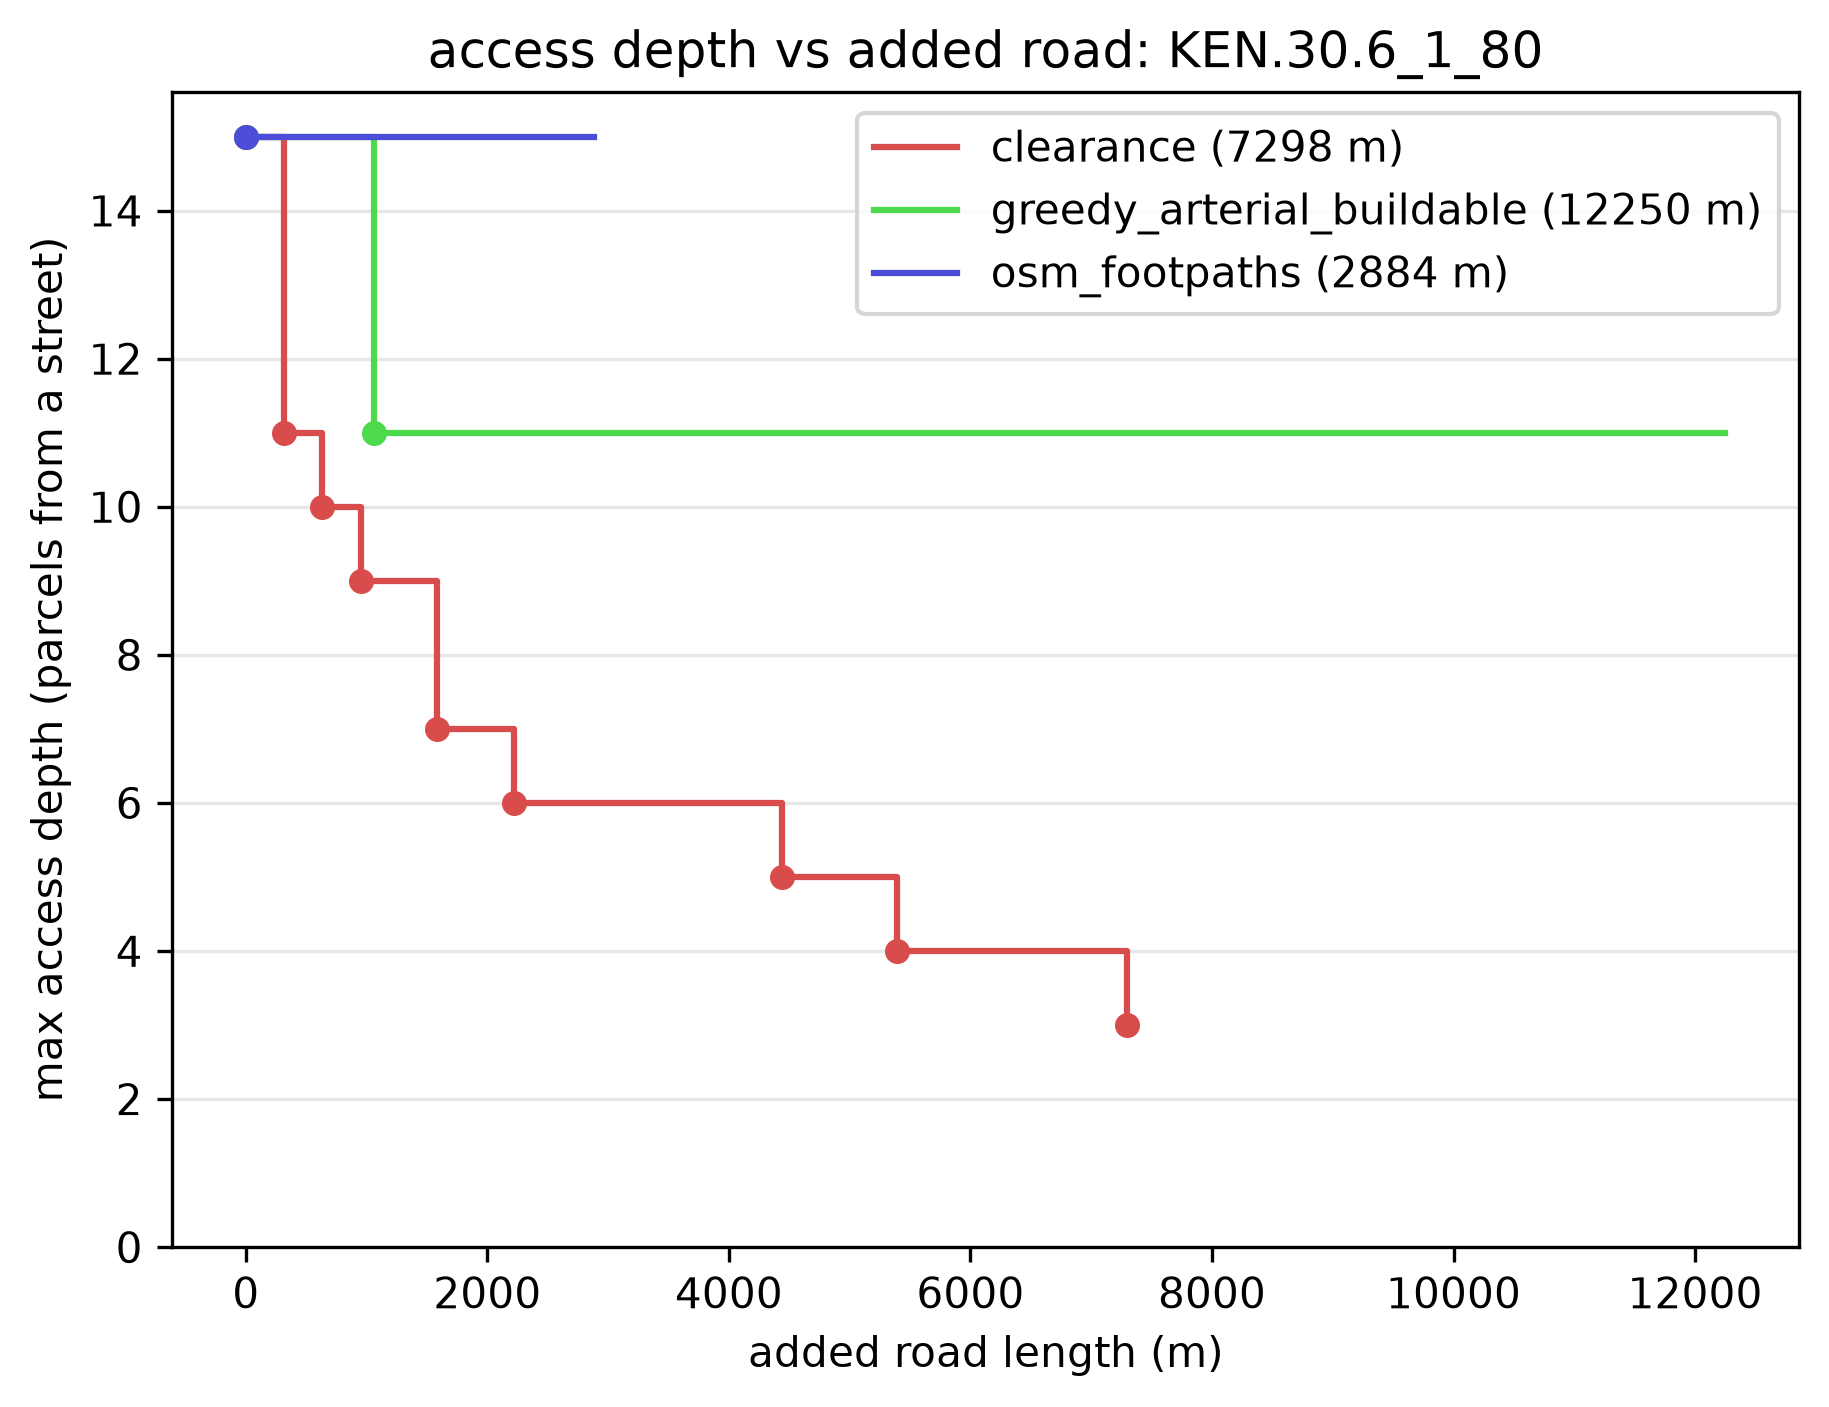
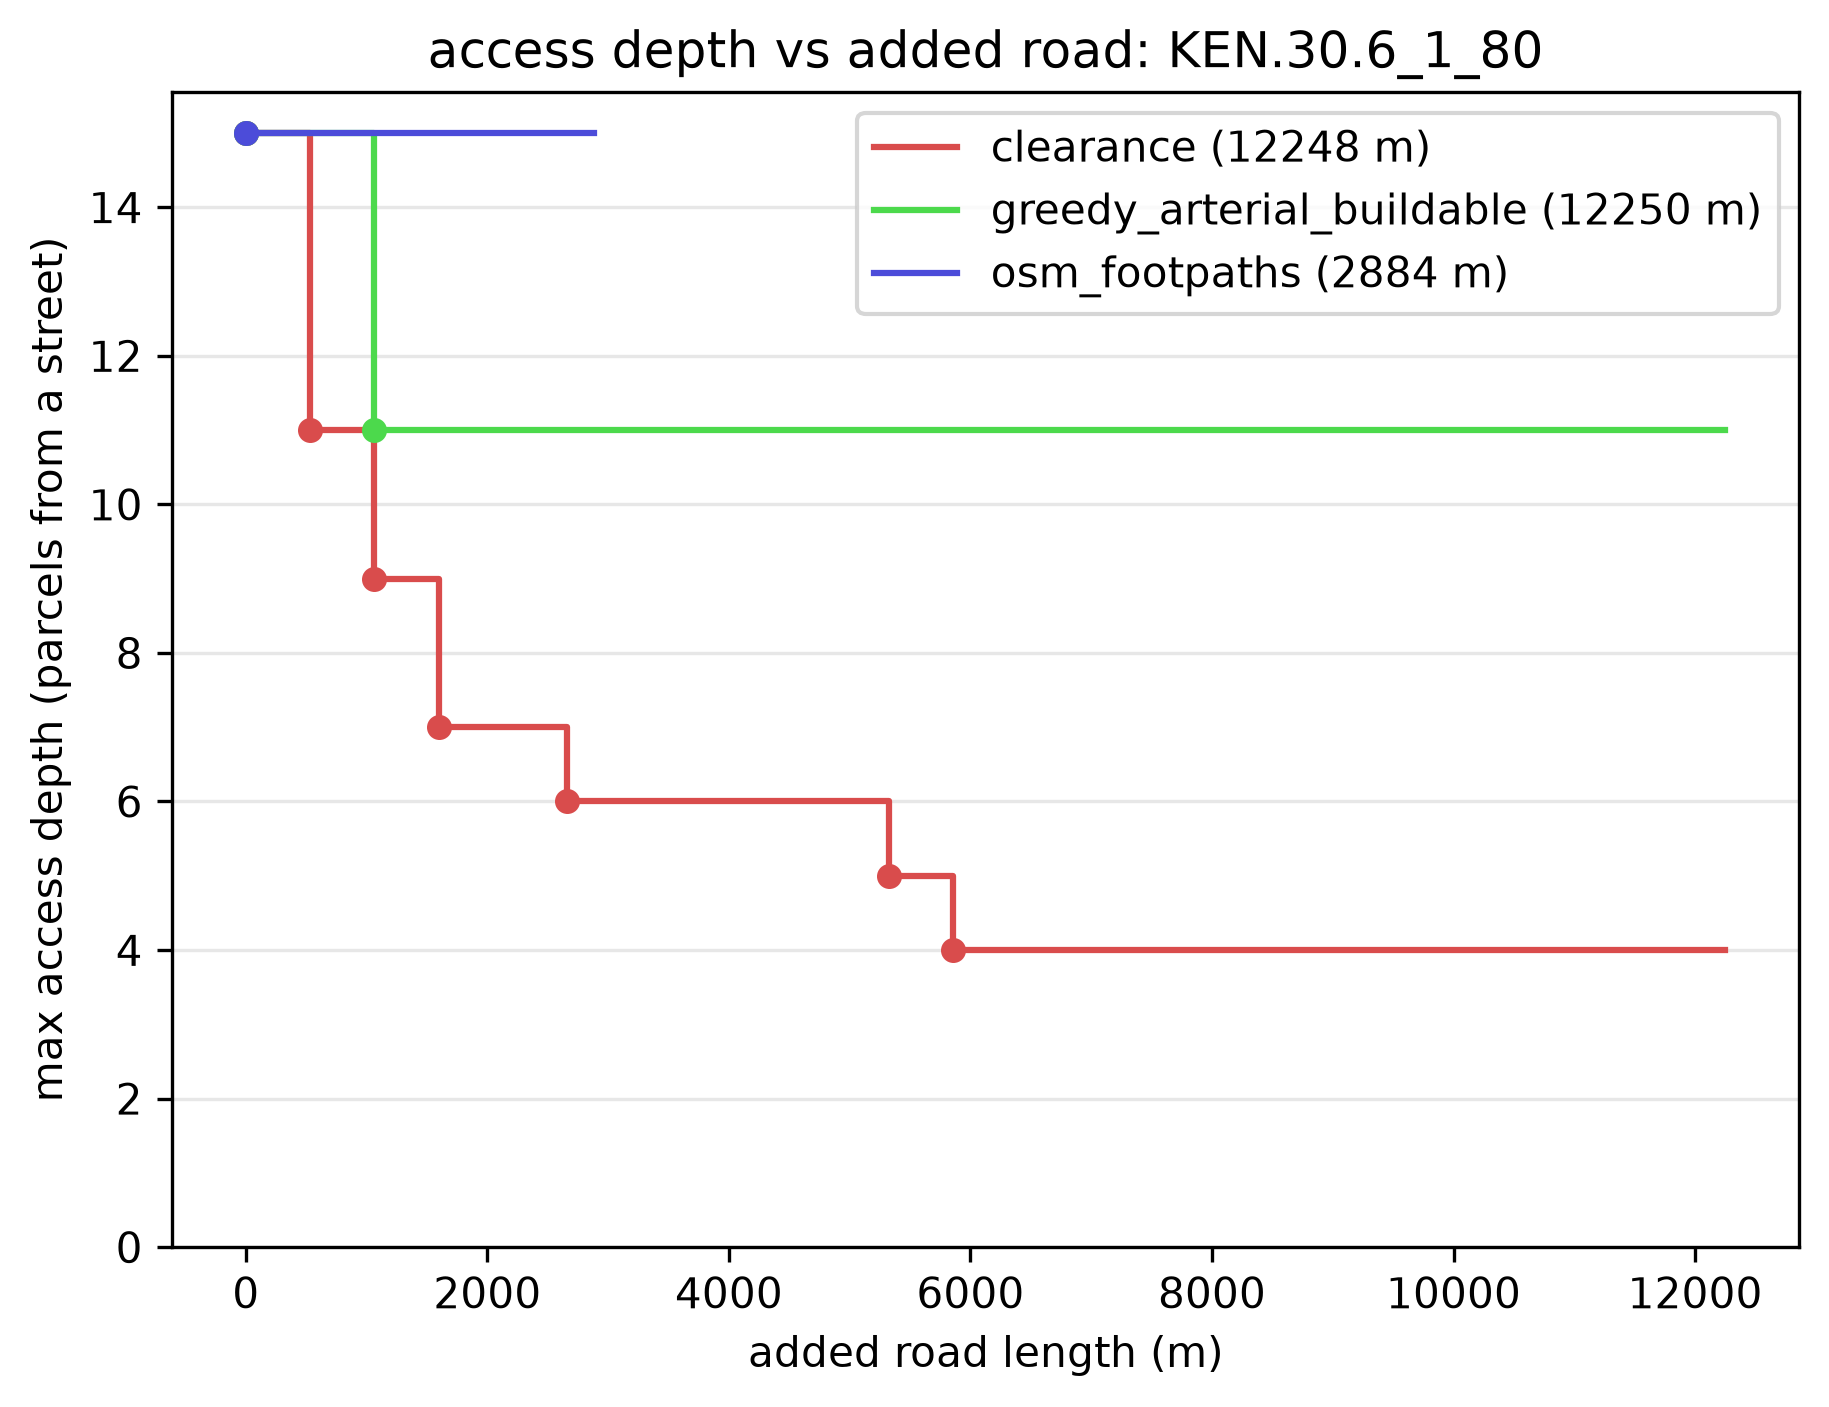
Continue clearance to the longest road on the depth curve (#20)
* feat: continue clearance past its depth target to the longest road on the depth curve

run_two_lens gains `extend` (over-provisioned method re-runs); each is truncated in drainage order
to L_max = the longest CONVERGED road, so it keeps clearing past its depth target while a method not
in `extend` (osm_footpaths fixed; arterial sparse) stops at its own length. A method already at
L_max is NOT re-run (skips the pointless, deep-region-expensive full-drainage reblock -- e.g. depth,
where clearance is already the longest, so its curve matches Lens A exactly). The orchestrator
extends only clearance (depth_target 1 = full drainage), the thorough clearer whose line is the
point; its extended run differs slightly from the depth-3-optimised Lens A, noted in the README.

Claude-Session: https://claude.ai/code/session_0125mCca6BQaTXiLZPMyFa8x

* chore(examples): regenerate depth curves continued to the longest road

Claude-Session: https://claude.ai/code/session_0125mCca6BQaTXiLZPMyFa8x

---------

diff --git a/scripts/compare_budgets.py b/scripts/compare_budgets.py
@@ -129,7 +129,8 @@ def _write_csv(path: Path, header: list[str], rows: list[list[object]]) -> None:
 
 
 def run_two_lens(region: list[Block], methods: dict[str, Method], target_depth: int,
-                 out_dir: Path, *, corridor_m: float = 3.0, label: str | None = None
+                 out_dir: Path, *, corridor_m: float = 3.0, label: str | None = None,
+                 extend: dict[str, Method] | None = None
                  ) -> tuple[list[LensARow], list[LensBRow]]:
     """Reblock each method once over `region` (timed), compute both lens tables, write the two CSVs,
     and render one after-heatmap per method per lens. The region block is method-independent (same
@@ -209,9 +210,20 @@ def run_two_lens(region: list[Block], methods: dict[str, Method], target_depth: 
         curves.append(MethodCurve(name, curve_label, "internal_connectivity", internal, pp, pd_))
         curves.append(MethodCurve(name, curve_label, "displacement", disp, pp, pd_))
     compare_report(curves, out_dir, method_order=list(methods))
-    # Access-depth vs road: where each method reaches each integer max-depth (osm plateaus).
-    depth_vs_road_report(block, roads_by_method, out_dir, method_order=list(methods),
-                         label=curve_label)
+    # Access-depth vs road. `extend` supplies over-provisioned re-runs of the method(s) to continue;
+    # each is truncated in drainage order to L_max = the longest CONVERGED road (max over the normal
+    # proposals), so it keeps clearing past its depth target out to L_max. A method NOT in `extend`
+    # (osm_footpaths, which is fixed; arterial, sparse by design) stops at its own converged length.
+    curve_roads = dict(roads_by_method)
+    if extend:
+        converged = {n: float(r.geometry.length.sum()) for n, r in roads_by_method.items()}
+        l_max = max(converged.values())
+        for name, xmethod in extend.items():
+            if converged.get(name, 0.0) >= l_max - 1e-6:
+                continue      # already the longest -> its own road is the curve road; no re-run
+            xroads = cast(GeoDataFrame, region_reblock(region, xmethod, []).proposal.roads)
+            curve_roads[name] = truncate_to_length(block, xroads, l_max)
+    depth_vs_road_report(block, curve_roads, out_dir, method_order=list(methods), label=curve_label)
     return lens_a, lens_b
 
 

diff --git a/scripts/gen_multiblock_example.py b/scripts/gen_multiblock_example.py
@@ -101,7 +101,16 @@ def main() -> None:
         with open_dict(cfg):
             cfg.desire_source.snapshot = str(snapshot)
         methods["osm_footpaths"] = cast(Method, instantiate(cfg.all_methods.osm_footpaths))
-    run_two_lens(region, methods, 3, out, label=seed)
+    # Continue clearance past its depth target on the depth curve ("to the longest road"): with
+    # depth_target 0 it keeps clearing until the region is fully drained, so it reaches L_max. Only
+    # clearance is extended -- it's the thorough clearer whose line is the point (it drains to ~1 at
+    # the longest budget); arterial (sparse by design) and the fixed osm_footpaths stop at their own
+    # converged lengths. Over-provisioning arterial's CELF doesn't scale to the big regions.
+    with open_dict(cfg):
+        cfg.all_methods.clearance.depth_target = 1     # clear to full drainage (bounded), not 0
+        cfg.all_methods.clearance.max_roads = 10000
+    extend = {"clearance": cast(Method, instantiate(cfg.all_methods.clearance))}
+    run_two_lens(region, methods, 3, out, label=seed, extend=extend)
 
     depths = block_depths(source, members)
     dens = {b.block_id: len(b.parcels) / b.parcels.geometry.union_all().area * 1e4 for b in region}

diff --git a/scripts/gen_example_readme.py b/scripts/gen_example_readme.py
@@ -70,9 +70,11 @@ def gen_example_readme(run_dir: Path, *, metric_name: str, formula: str, blurb: 
         parts.append("## 3. The method frontier (benefit vs added road)\n")
         if depth_curve:
             parts.append("How far each method's road drives the region's **max access depth** — a "
-                         "dot marks where it first reaches each new integer depth. The as-built "
-                         "`osm_footpaths` network plateaus at its floor; the optimised methods "
-                         "keep clearing (this is why the matched-road comparison matters):\n")
+                         "dot marks where it first reaches each new integer depth. `clearance` is "
+                         "**continued past its depth target** (a full-drainage run) out to the "
+                         "longest method's road, so every method is compared at the same budget: "
+                         "the as-built `osm_footpaths` network plateaus at its floor while "
+                         "`clearance` reaches the same depth for a fraction of the road:\n")
             for p in depth_curve:
                 parts.append(f"![access depth vs added road]({p.name})\n")
     if curve_ext or curve_int or curve_disp:

diff --git a/examples/multiblock_density_compactness/README.md b/examples/multiblock_density_compactness/README.md
@@ -20,7 +20,7 @@ The metric grows a **19-block** region (**4,677 parcels**), mean depth 5.1 rings
 
 ## 3. The method frontier (benefit vs added road)
 
-How far each method's road drives the region's **max access depth** — a dot marks where it first reaches each new integer depth. The as-built `osm_footpaths` network plateaus at its floor; the optimised methods keep clearing (this is why the matched-road comparison matters):
+How far each method's road drives the region's **max access depth** — a dot marks where it first reaches each new integer depth. `clearance` is **continued past its depth target** (a full-drainage run) out to the longest method's road, so every method is compared at the same budget: the as-built `osm_footpaths` network plateaus at its floor while `clearance` reaches the same depth for a fraction of the road:
 
 ![access depth vs added road](depth_vs_road_ZAF.9.3.1_1_44531.png)
 

diff --git a/examples/multiblock_depth_density/README.md b/examples/multiblock_depth_density/README.md
@@ -20,7 +20,7 @@ The metric grows a **3-block** region (**2,690 parcels**), mean depth 8.7 rings,
 
 ## 3. The method frontier (benefit vs added road)
 
-How far each method's road drives the region's **max access depth** — a dot marks where it first reaches each new integer depth. The as-built `osm_footpaths` network plateaus at its floor; the optimised methods keep clearing (this is why the matched-road comparison matters):
+How far each method's road drives the region's **max access depth** — a dot marks where it first reaches each new integer depth. `clearance` is **continued past its depth target** (a full-drainage run) out to the longest method's road, so every method is compared at the same budget: the as-built `osm_footpaths` network plateaus at its floor while `clearance` reaches the same depth for a fraction of the road:
 
 ![access depth vs added road](depth_vs_road_ZAF.9.3.1_1_38528.png)
 

diff --git a/examples/multiblock_depth/README.md b/examples/multiblock_depth/README.md
@@ -20,7 +20,7 @@ The metric grows a **12-block** region (**11,006 parcels**), mean depth 6.4 ring
 
 ## 3. The method frontier (benefit vs added road)
 
-How far each method's road drives the region's **max access depth** — a dot marks where it first reaches each new integer depth. The as-built `osm_footpaths` network plateaus at its floor; the optimised methods keep clearing (this is why the matched-road comparison matters):
+How far each method's road drives the region's **max access depth** — a dot marks where it first reaches each new integer depth. `clearance` is **continued past its depth target** (a full-drainage run) out to the longest method's road, so every method is compared at the same budget: the as-built `osm_footpaths` network plateaus at its floor while `clearance` reaches the same depth for a fraction of the road:
 
 ![access depth vs added road](depth_vs_road_ZAF.9.3.1_1_5810.png)
 

diff --git a/examples/nairobi/multiblock_density_compactness/README.md b/examples/nairobi/multiblock_density_compactness/README.md
@@ -20,7 +20,7 @@ The metric grows a **89-block** region (**2,809 parcels**), mean depth 2.5 rings
 
 ## 3. The method frontier (benefit vs added road)
 
-How far each method's road drives the region's **max access depth** — a dot marks where it first reaches each new integer depth. The as-built `osm_footpaths` network plateaus at its floor; the optimised methods keep clearing (this is why the matched-road comparison matters):
+How far each method's road drives the region's **max access depth** — a dot marks where it first reaches each new integer depth. `clearance` is **continued past its depth target** (a full-drainage run) out to the longest method's road, so every method is compared at the same budget: the as-built `osm_footpaths` network plateaus at its floor while `clearance` reaches the same depth for a fraction of the road:
 
 ![access depth vs added road](depth_vs_road_KEN.30.9_1_3515.png)
 

diff --git a/examples/nairobi/multiblock_depth_density/README.md b/examples/nairobi/multiblock_depth_density/README.md
@@ -20,7 +20,7 @@ The metric grows a **7-block** region (**5,095 parcels**), mean depth 7.3 rings,
 
 ## 3. The method frontier (benefit vs added road)
 
-How far each method's road drives the region's **max access depth** — a dot marks where it first reaches each new integer depth. The as-built `osm_footpaths` network plateaus at its floor; the optimised methods keep clearing (this is why the matched-road comparison matters):
+How far each method's road drives the region's **max access depth** — a dot marks where it first reaches each new integer depth. `clearance` is **continued past its depth target** (a full-drainage run) out to the longest method's road, so every method is compared at the same budget: the as-built `osm_footpaths` network plateaus at its floor while `clearance` reaches the same depth for a fraction of the road:
 
 ![access depth vs added road](depth_vs_road_KEN.30.6_1_109.png)
 

diff --git a/examples/nairobi/multiblock_depth/README.md b/examples/nairobi/multiblock_depth/README.md
@@ -20,7 +20,7 @@ The metric grows a **1-block** region (**4,365 parcels**), mean depth 15.0 rings
 
 ## 3. The method frontier (benefit vs added road)
 
-How far each method's road drives the region's **max access depth** — a dot marks where it first reaches each new integer depth. The as-built `osm_footpaths` network plateaus at its floor; the optimised methods keep clearing (this is why the matched-road comparison matters):
+How far each method's road drives the region's **max access depth** — a dot marks where it first reaches each new integer depth. `clearance` is **continued past its depth target** (a full-drainage run) out to the longest method's road, so every method is compared at the same budget: the as-built `osm_footpaths` network plateaus at its floor while `clearance` reaches the same depth for a fraction of the road:
 
 ![access depth vs added road](depth_vs_road_KEN.30.6_1_80.png)
 
